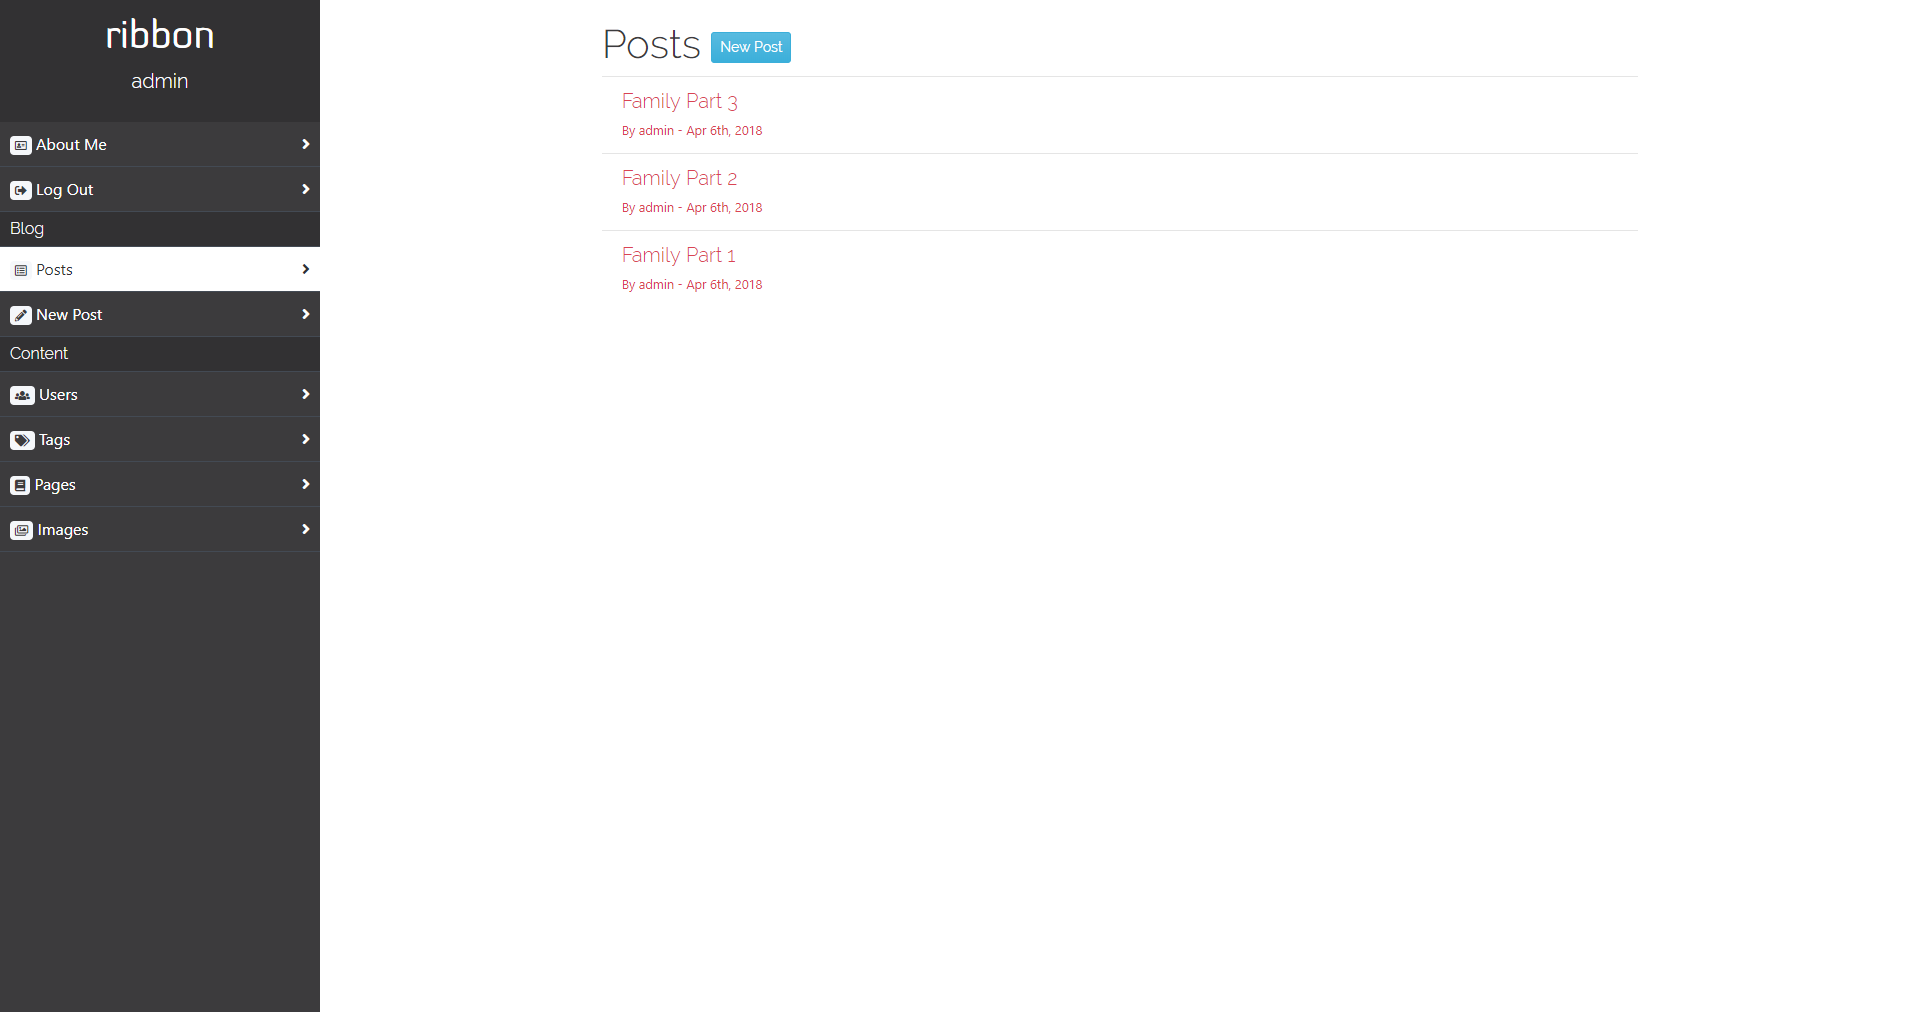
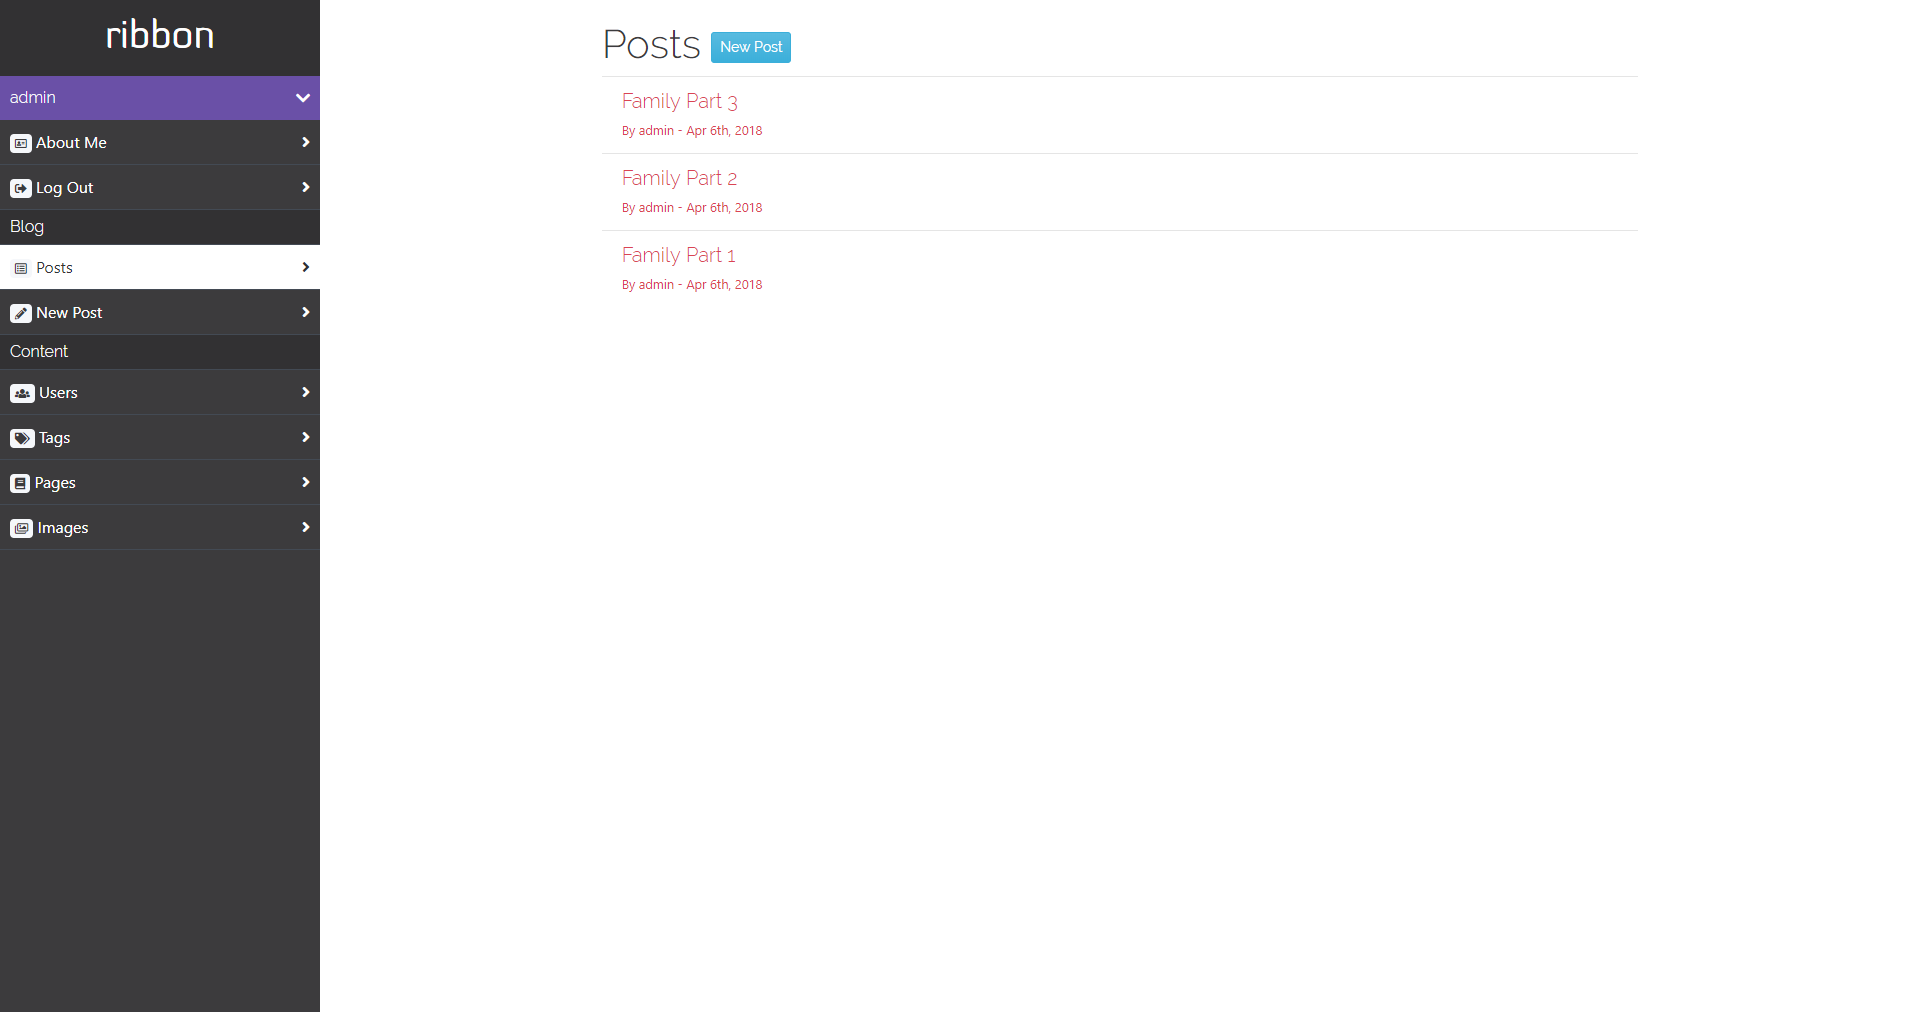
The profile links are now under a collapsible content.

diff --git a/src/components/Navigation.vue b/src/components/Navigation.vue
@@ -8,13 +8,15 @@
                 </span>
             </div>
             <h1 class="d-none d-md-block diavlo">ribbon</h1>
-            <p class="d-none d-md-block lead">{{ currentUser.username }}</p>
         </div>
-        <b-collapse class="vert-nav collapse" id="main-nav" v-model="mainNavCollapse">
-            <ul>
-                <li><router-link :to="{ name: 'About' }" active-class="current"><span class="badge badge-light"><i class="far fa-address-card"></i></span> About Me</router-link></li>
-                <li v-on:click.prevent="logOut()"><a href=""><span class="badge badge-light"><i class="fas fa-sign-out-alt"></i></span> Log Out</a></li>
-            </ul>
+        <b-collapse class="vert-nav" id="main-nav">
+            <b-btn v-b-toggle="'profile-nav'" class="profile-heading">{{ currentUser.username }}</b-btn>
+            <b-collapse id="profile-nav">
+                <ul>
+                    <li><router-link :to="{ name: 'About' }" active-class="current"><span class="badge badge-light"><i class="far fa-address-card"></i></span> About Me</router-link></li>
+                    <li v-on:click.prevent="logOut()"><a href=""><span class="badge badge-light"><i class="fas fa-sign-out-alt"></i></span> Log Out</a></li>
+                </ul>
+            </b-collapse>
             <div class="heading">Blog</div>
             <ul>
                 <li><router-link :to="{ name: 'Posts' }" active-class="current"><span class="badge badge-light"><i class="far fa-list-alt"></i></span> Posts</router-link></li>
@@ -37,7 +39,6 @@ export default {
     name: 'Navigation',
     data() {
         return{
-            mainNavCollapse: true
         }
     },
     computed: {

diff --git a/src/assets/scss/ribbon.scss b/src/assets/scss/ribbon.scss
@@ -75,6 +75,40 @@ a, a:link, a:visited, a:hover {
     border-bottom: 1px solid $gray-800;
 }
 
+.profile-container {
+    /* Position */
+    position: relative;
+}
+
+.main-nav .vert-nav .profile-heading {
+    background-color: $purple;
+    background: $purple;
+    width: 100%;
+    /* Font */
+    font-family: 'Raleway', sans-serif;
+    font-weight: 300;
+    text-align: left;
+    /* Position */
+    position: relative;
+    /* Margin & Padding */
+    padding: 10px;
+    /* Border */
+    border: none;
+    /* Border Radius */
+    border-radius: 0;
+}
+
+.main-nav .vert-nav .profile-heading:after {
+    content: '\f078';
+    /* Font */
+    font-family: 'Font Awesome 5 Free';
+    font-weight: 900;
+    /* Position */
+    position: absolute;
+    right: 10px;
+    top: 10px;
+}
+
 .vert-nav ul {
     list-style: none;
     /* Margin & Padding */
@@ -126,6 +160,12 @@ a, a:link, a:visited, a:hover {
 @media screen and (max-width: 767px) {
     .vert-nav {
         display: none;
+    }
+}
+
+@media screen and (min-width: 786px) {
+    .vert-nav {
+        display: block !important;
     }
 }
 

diff --git a/src/assets/css/ribbon.css b/src/assets/css/ribbon.css
@@ -61,6 +61,37 @@ a, a:link, a:visited, a:hover {
   /* Border */
   border-bottom: 1px solid #434a54; }
 
+.profile-container {
+  /* Position */
+  position: relative; }
+
+.main-nav .vert-nav .profile-heading {
+  background-color: #6a50a7;
+  background: #6a50a7;
+  width: 100%;
+  /* Font */
+  font-family: 'Raleway', sans-serif;
+  font-weight: 300;
+  text-align: left;
+  /* Position */
+  position: relative;
+  /* Margin & Padding */
+  padding: 10px;
+  /* Border */
+  border: none;
+  /* Border Radius */
+  border-radius: 0; }
+
+.main-nav .vert-nav .profile-heading:after {
+  content: '\f078';
+  /* Font */
+  font-family: 'Font Awesome 5 Free';
+  font-weight: 900;
+  /* Position */
+  position: absolute;
+  right: 10px;
+  top: 10px; }
+
 .vert-nav ul {
   list-style: none;
   /* Margin & Padding */
@@ -106,6 +137,9 @@ a, a:link, a:visited, a:hover {
 @media screen and (max-width: 767px) {
   .vert-nav {
     display: none; } }
+@media screen and (min-width: 786px) {
+  .vert-nav {
+    display: block !important; } }
 /*
  * Main Content
  */
